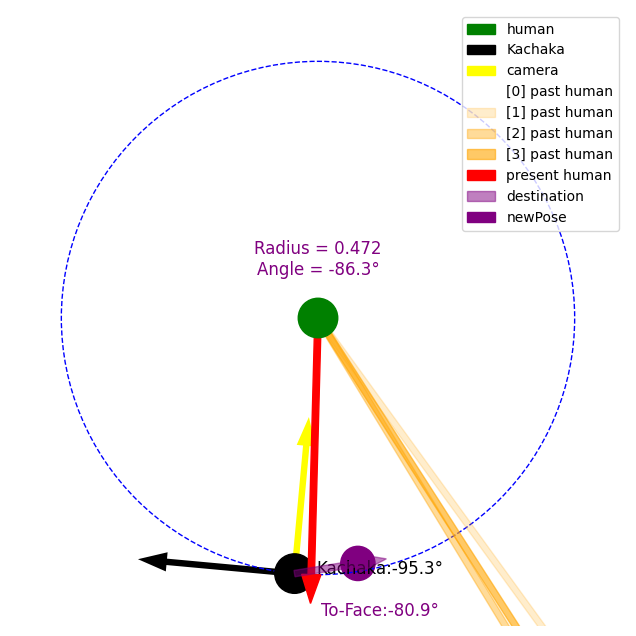
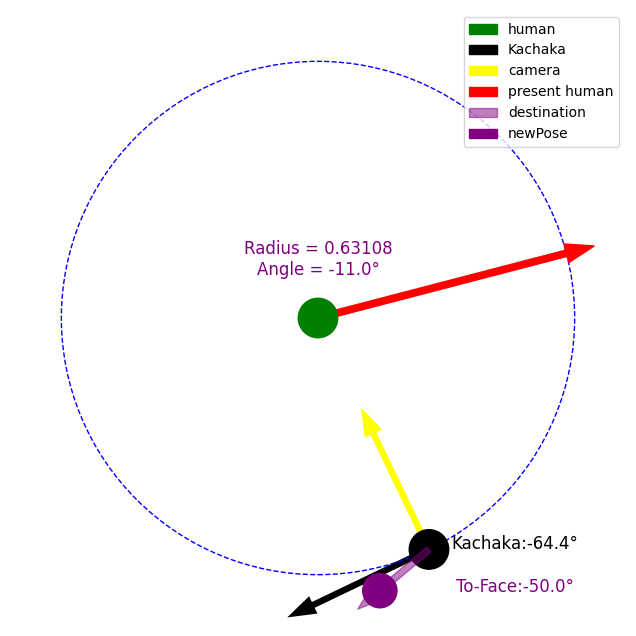
u

Changed region(s): [[0.2091, 0.0299, 0.956, 0.9858]]

diff --git a/stalk/funcs.py b/stalk/funcs.py
@@ -81,7 +81,7 @@ def log_function_data(func):
         # Format arguments and keyword arguments
         formatted_args = format_value(args)
         formatted_kwargs = format_value(kwargs)
-        logging.info(f'Starting function {func.__name__} with arguments {formatted_args} and keyword arguments {formatted_kwargs}')
+        logging.info(f'Starting function {C.YELLOW}{func.__name__}{C.RESET} with arguments {formatted_args} and keyword arguments {formatted_kwargs}')
         
         try:
             # Call the function and get the result
@@ -89,11 +89,11 @@ def log_function_data(func):
             
             # Format return value
             formatted_result = format_value(result)
-            logging.info(f'Function {func.__name__} returned {formatted_result}')
+            logging.info(f'Function {C.YELLOW}{func.__name__}{C.RESET} returned {formatted_result}')
             return result
         except Exception as e:
             # Log any exceptions that occur
-            logging.error(f'Function {func.__name__} raised an exception: {e}')
+            logging.error(f'Function {C.YELLOW}{func.__name__}{C.RESET} raised an exception: {e}')
             raise
     return wrapper
 
@@ -177,7 +177,6 @@ class RealSenseCamera:
         else:
             return None
 
-    @log_function_data
     def get_frames(self) -> Tuple[Optional[np.ndarray], Optional[np.ndarray]]:
         """
         Wait for the next set of frames and return aligned depth and color images.
@@ -390,11 +389,11 @@ class KachakaFrame():
                     self.running_move_to_pose = False
                     if running_move_to_pose:
                         await self.cancel_move_to_pose()
-                    print("goal reached:", np.round([dest_x, dest_y, dest_theta],3),"-",np.round([cur_x, cur_y, cur_theta],3),"=", np.round(diff,4), "->", np.round(euclidean_dist,4))
+                        logging.debug(f"goal reached:{np.round([dest_x, dest_y, dest_theta],3)}-{np.round([cur_x, cur_y, cur_theta],3)}={np.round(diff,4)}->{np.round(euclidean_dist,4)}")
                 # if goal not reached
                 elif not running_move_to_pose and not self.running_move_to_pose:
                     self.running_move_to_pose = True
-                    print("moving:", np.round([dest_x, dest_y, dest_theta],3),"-",np.round([cur_x, cur_y, cur_theta],3),"=", np.round(diff,4), "->", np.round(euclidean_dist,4))
+                    logging.debug(f"goal reached:{np.round([dest_x, dest_y, dest_theta],3)}-{np.round([cur_x, cur_y, cur_theta],3)}={np.round(diff,4)}->{np.round(euclidean_dist,4)}")
                     await self.short_move_to_pose()
             else:
                 await self.async_client.set_robot_velocity(self.linear, self.angular)
@@ -411,7 +410,6 @@ class KachakaFrame():
         self.cv_img = cv2.imdecode(np.frombuffer(image.data, dtype=np.uint8), flags=1)
         self.cv_img = undistort(self.cv_img, *self.undistort_map)
 
-    @log_function_data
     async def human_detection(self, image:np.ndarray):
         """detects human using kachaka's embedded model
         """
@@ -436,7 +434,6 @@ class KachakaFrame():
             self.target_found = False
             self.human_detection_result = None
 
-    @log_function_data
     async def human_detection_annotate(self, do_draw_box=True, draw_target_marker=True):
         if self.human_detection_result:
             if do_draw_box:
@@ -499,7 +496,6 @@ class KachakaFrame():
         else:
             self.being_controlled = False
 
-    @log_function_data
     async def annotate(self, st:float, show_fps = False, show_nearest_lidar = False, show_id = True):
         if show_fps:
             cv2.putText(self.cv_img, f"fps:{round(1/(time.time()-st))}", (20, 80), *lazy_cv2_txt_params)
@@ -536,7 +532,7 @@ class KachakaFrame():
                 else:
                     print(self.error_code[result.error_code])
         except Exception as e:
-            print(self.id,":",e)
+            logging.error(f"[{self.id}]{C.RED}Fail{C.RESET} during short_navigate(): {e}")
 
     @log_function_data
     async def check_navigate(self):
@@ -555,7 +551,7 @@ class KachakaFrame():
             # when function ends
             self.running_move_to_pose = False
         else:
-            print(f"{C.RED}Fail{C.RESET} during move_to_pose(): {self.error_code[result.error_code]}")
+            logging.error(f"[{self.id}]{C.RED}Fail{C.RESET} during move_to_pose(): {self.error_code[result.error_code]}")
 
     @log_function_data
     async def check_move_to_pose(self):
@@ -572,7 +568,6 @@ class KachakaFrame():
         if await self.check_move_to_pose():
             await self.async_client.cancel_command()
 
-    @log_function_data
     async def check_command_states(self) -> tuple:
         """
         Return -> bool, [pb2.GetCommandStateResponse, None], (Result, Command)
@@ -612,7 +607,6 @@ class KachakaFrame():
         deg = sign*rads*180/np.pi
         return deg
 
-    @log_function_data
     async def mp_landmark_annotate(self, line_length=100):
         m = self.mp_landmark_model
         # draw if, human detected, landmarks found, and if these 2 overlap
@@ -633,7 +627,6 @@ class KachakaFrame():
         x,y,w,h = self.target_pos
         return x<=tx<=x+w and y<=ty<=y+h
 
-    @log_function_data
     async def get_robot_pose(self):
         """
         return:
@@ -663,8 +656,9 @@ class KachakaFrame():
                 l = [m._convert_to_ndarray(i) for i in l]
                 l = [self.realsense.get_depth_at_pixel(int(img_w*x), int(img_h*y), self.depth_image, self.color_image) for x,y,_ in l]
                 l = filter_outliers_IQR(np.array([n for n in l if n is not None],dtype=float))
-                if len(l) > 5: # continue only if valid depths can be retrieved
+                if len(l) > 10: # continue only if valid depths can be retrieved
                     z_dist = np.average(l) # distance in meter
+                    logging.debug(f"[{self.id}]KachakaFrame.adjust_to_front(). z_dist:{z_dist}, l:{len(l)}/33")
                     d_step = min(z_dist/4, 1) # chord len (dist to travel between 2 vertices on the circumference) in meter
                     (pose_x, pose_y), pose_theta  = await pose_task
                     pose_deg = np.rad2deg(pose_theta)
@@ -718,7 +712,7 @@ class KachakaFrame():
                 dx, dy = get_coords_from_angle(pose_theta-math.pi/2, step_distance)
                 destination_arrow = ax.arrow(*kachaka, dx, dy, color="purple", linestyle="solid", lw=1, zorder=4, width=z_dist/arrow_sca, shape="full", label="destination", alpha=.5)
             else:
-                dx, dy = get_coords_from_angle(pose_theta-math.pi/2, -step_distance)
+                dx, dy = get_coords_from_angle(pose_theta+math.pi/2, -step_distance)
                 destination_arrow = ax.arrow(*kachaka, dx, dy, color="purple", linestyle="solid", lw=1, zorder=4, width=z_dist/arrow_sca, shape="full", label="destination", alpha=.5)
             ax.add_artist(plt.Circle((kachaka[0]+dx, kachaka[1]+dy), z_dist/15, color="purple", label="newPose"))
             ax.text(kachaka[0]+z_dist/3, kachaka[1]-z_dist/6, f"To-Face:{round(np.rad2deg(pose_theta),1)}°", fontsize=12, ha='center', color='purple')
@@ -949,7 +943,6 @@ def image_resize(image, width = None, height = None, inter = cv2.INTER_AREA):
     # return the resized image
     return resized
 
-@log_function_data
 async def display_kachakas(kachakas:list[KachakaFrame]):
     image = np.concatenate(([kachaka.cv_img for kachaka in kachakas]), axis=1)
     image = image_resize(image, width=SCREEN_W, height=SCREEN_H)

diff --git a/README.md b/README.md
@@ -53,7 +53,8 @@ think-pad pass:1234
   - [x] MP pose landmark > orientation for *full body*
   - [ ] circle around target in fixed distance till face can be seen
     - [x] circle angle calculation
-    - [ ] circle step calculation
+    - [x] circle step calculation
+    - [ ] stop when on the front side of person
   - [ ] adjust distance to target s.t. face can be seen
 - [ ] move kachaka and external devices with mounted laptop
   - [x] kachaka
